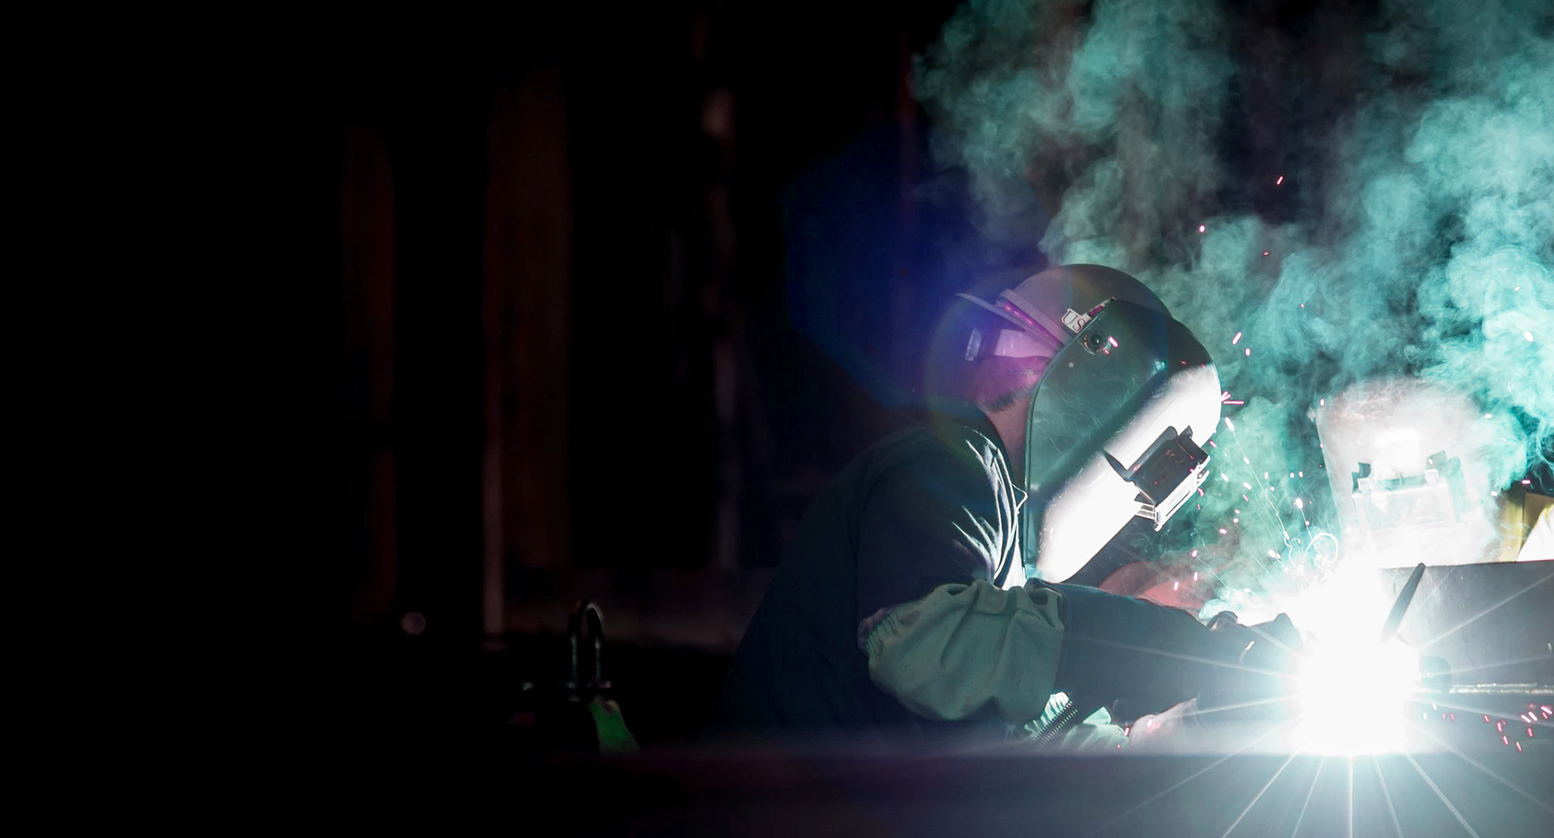
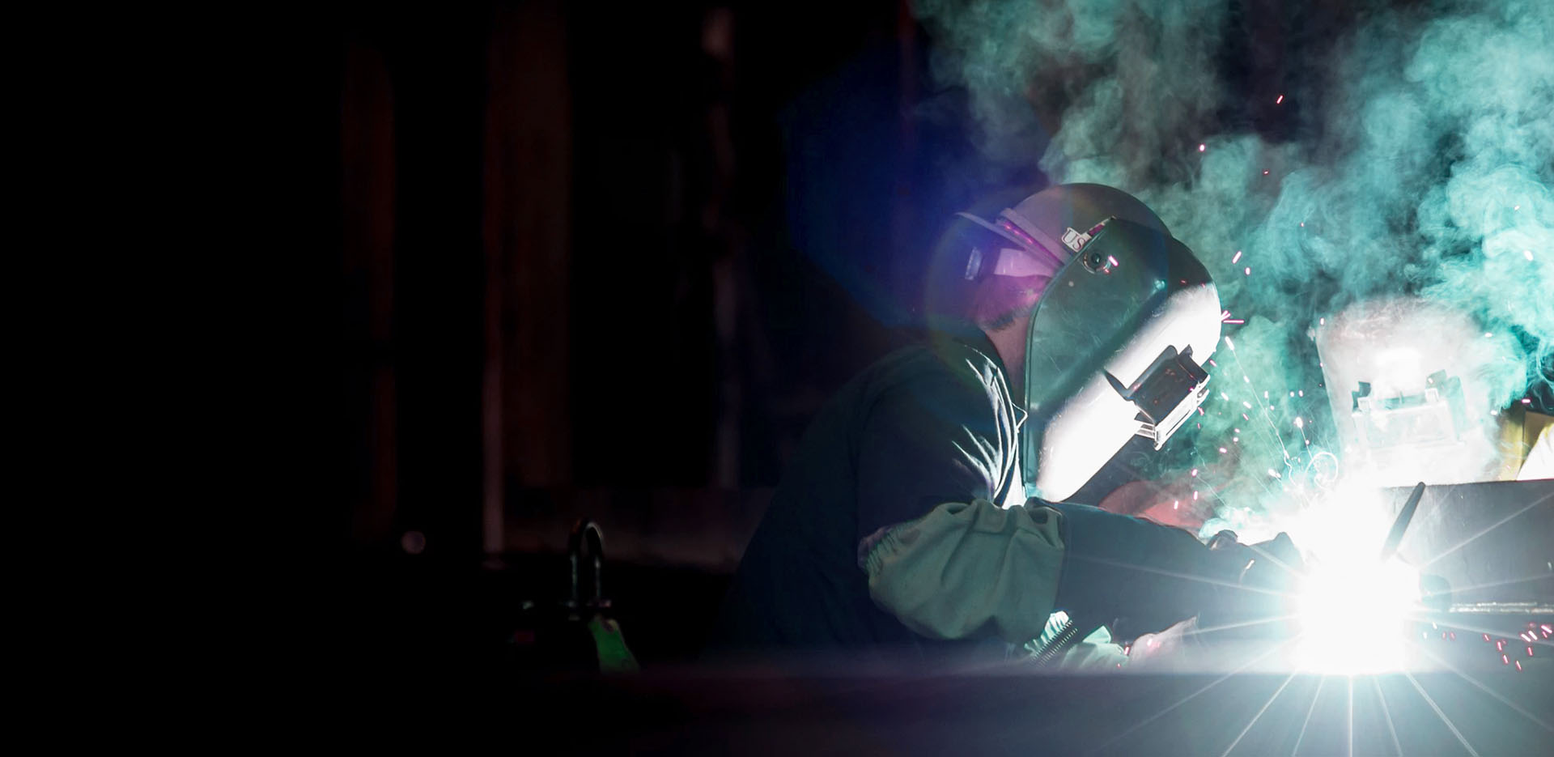
Добавляет верстку главного банера для десктопов

diff --git a/build/css/style.min.css b/build/css/style.min.css
@@ -1,3 +1,3 @@
 /*! normalize-scss | MIT/GPLv2 License | bit.ly/normalize-scss */
-html{line-height:1.15;-ms-text-size-adjust:100%;-webkit-text-size-adjust:100%}body,sub,sup{position:relative}body{margin:0;font-family:"Roboto","Arial",sans-serif;font-weight:400;color:#000;background:#fff;font-size:15px;line-height:22px}article,aside,details,figcaption,figure,footer,header,main,menu,nav,section{display:block}h1{font-size:2em;margin:.67em 0}figure{margin:1em 40px}hr{box-sizing:content-box;height:0;overflow:visible}code,kbd,pre,samp{font-family:monospace,monospace;font-size:1em}a{background-color:transparent;-webkit-text-decoration-skip:objects;text-decoration:none}abbr[title]{border-bottom:none;-webkit-text-decoration:underline dotted;text-decoration:underline dotted}b,strong{font-weight:bolder}dfn{font-style:italic}mark{background-color:#ff0;color:#000}small{font-size:80%}sub,sup{font-size:75%;line-height:0;vertical-align:baseline}sub{bottom:-.25em}sup{top:-.5em}audio,canvas,video{display:inline-block}audio:not([controls]){display:none;height:0}img{border-style:none}svg:not(:root){overflow:hidden}button,input,optgroup,select,textarea{font-family:sans-serif;font-size:100%;line-height:1.15;margin:0}button,input{overflow:visible}button,select{text-transform:none}[type=reset],[type=submit],button,html [type=button]{-webkit-appearance:button}[type=button]::-moz-focus-inner,[type=reset]::-moz-focus-inner,[type=submit]::-moz-focus-inner,button::-moz-focus-inner{border-style:none;padding:0}[type=button]:-moz-focusring,[type=reset]:-moz-focusring,[type=submit]:-moz-focusring,button:-moz-focusring{outline:1px dotted ButtonText}[type=checkbox],[type=radio]{box-sizing:border-box;padding:0}[type=number]::-webkit-inner-spin-button,[type=number]::-webkit-outer-spin-button{height:auto}[type=search]{-webkit-appearance:textfield;outline-offset:-2px}[type=search]::-webkit-search-cancel-button,[type=search]::-webkit-search-decoration{-webkit-appearance:none}::-webkit-file-upload-button{-webkit-appearance:button;font:inherit}fieldset{padding:.35em .75em .625em}legend{box-sizing:border-box;display:table;max-width:100%;padding:0;color:inherit;white-space:normal}progress{display:inline-block;vertical-align:baseline}textarea{overflow:auto}summary{display:list-item}[hidden],template{display:none}@font-face{font-family:"Roboto";src:url(../fonts/roboto-v19-latin_cyrillic-regular.woff2) format("woff2"),url(../fonts/roboto-v19-latin_cyrillic-regular.woff) format("woff");font-weight:400;font-style:normal}@font-face{font-family:"Roboto";src:url(../fonts/roboto-v19-latin_cyrillic-500.woff2) format("woff2"),url(../fonts/roboto-v19-latin_cyrillic-500.woff) format("woff");font-weight:500;font-style:normal}@font-face{font-family:"Roboto";src:url(../fonts/roboto-v19-latin_cyrillic-700.woff2) format("woff2"),url(../fonts/roboto-v19-latin_cyrillic-700.woff) format("woff");font-weight:700;font-style:normal}@font-face{font-family:"Roboto";src:url(../fonts/roboto-v19-latin_cyrillic-900.woff2) format("woff2"),url(../fonts/roboto-v19-latin_cyrillic-900.woff) format("woff");font-weight:900;font-style:normal}@font-face{font-family:"Raleway";src:url(../fonts/Raleway-Regular.woff2) format("woff2"),url(../fonts/Raleway-Regular.woff) format("woff");font-weight:400;font-style:normal}@font-face{font-family:"Raleway";src:url(../fonts/Raleway-Black.woff2) format("woff2"),url(../fonts/Raleway-Black.woff) format("woff");font-weight:900;font-style:normal}li{list-style:none}.visual-hidden{clip:rect(0 0 0 0);position:absolute;width:1px;height:1px;margin:-1px}.button--scroll,.title{font-size:16px;text-align:center}.button--scroll{line-height:45px;background-color:#00ffd8;font-weight:500;color:#000}.button--scroll:hover{box-shadow:0 2px 4.75px .25px #00ffd8}.title{font-family:"Raleway","Arial",sans-serif;font-weight:900;color:#fff}@media (min-width:768px){.title{font-size:72px;font-weight:900}}.container{box-sizing:border-box;width:320px;margin:0 auto}@media (min-width:768px){.container{padding-left:22px;padding-right:22px;width:768px}}@media (min-width:1200px){.container{padding-left:15px;padding-right:15px;width:1200px}}.page-header{background-color:#fbfbfb;width:100%;margin:0 auto}.main-nav{position:relative;display:-webkit-box;display:flex;flex-wrap:wrap;width:320px;min-height:50px;margin:0 auto;-webkit-box-align:start;align-items:flex-start;-webkit-box-pack:justify;justify-content:space-between}.main-nav__logo{padding-top:6px;padding-left:20px}.main-nav__logo-image{display:block;margin:0 auto}.main-nav__toggle-button{border:0;cursor:pointer;background:0 0;line-height:0;font-size:0;padding:17px 20px;width:18px;min-height:16px}.main-nav__list{display:none;margin:0;padding:0;position:absolute;bottom:-160px;width:100%;z-index:10}.main-nav__toggle:checked~.main-nav__list{display:block}.main-nav__link{display:block;font-size:12px;text-transform:uppercase;line-height:36px;min-height:36px;padding-top:4px;text-align:center;color:#383838;background-color:#e7e7e7;box-shadow:inset 0 1px 2px .02px #ddd}.main-nav__item:nth-child(2)>.main-nav__link{box-shadow:none}.main-nav__feedback,.main-nav__link--desktop,.main-nav__phone{display:none}@media (min-width:768px){.main-nav{width:640px;min-height:52px;padding-left:64px;padding-right:64px;-webkit-box-pack:start;justify-content:flex-start}.main-nav__logo{padding-top:8px;padding-left:0}.main-nav__toggle-button{width:26px;min-height:21px;padding-bottom:14px}.main-nav__toggle-button--top{margin-left:19px}.main-nav__list{left:0;width:207px}.main-nav__phone{display:block;line-height:20px;font-size:14px;font-weight:700;word-spacing:-2px}.main-nav__phone--top{margin-left:auto;margin-top:19px;margin-bottom:13px}}@media (min-width:1200px){.main-nav{width:1170px;min-height:100px;padding-left:15px;padding-right:15px}.main-nav__logo-image{width:141px;height:60px}.main-nav__logo{padding:0;margin-top:20px;margin-bottom:20px;margin-right:58px}.main-nav__toggle-button{display:none}.main-nav__list{display:-webkit-box;display:flex;position:static;width:auto}.main-nav__toggle:checked~.main-nav__list{display:-webkit-box;display:flex}.main-nav__link{font-weight:900;font-size:10px;line-height:20px;text-align:center;color:#707070;background-color:transparent;border:0;min-height:inherit;padding:0;margin-right:25px;margin-top:40px;margin-bottom:40px;box-shadow:none}.main-nav__link:hover{color:#000}.main-nav__link--desktop{display:block}.main-nav__phone{font-size:18px;font-weight:700;margin-top:auto;margin-bottom:auto;word-spacing:-4px}.main-nav__feedback{display:block;width:190px;min-height:45px;margin-left:25px;margin-top:26px;margin-bottom:30px}}.toggle__line{display:block;margin-bottom:4px;height:2px;width:16px;background-color:#959595;border-left:solid;border-right:solid;border-left-width:1px;border-right-width:1px;border-color:#adadad}.toggle__line:last-child{margin-bottom:0}@media (min-width:768px){.toggle__line{width:24px;margin-bottom:7px}}.page-main{position:relative}.page-main__background{background-color:#303030;position:absolute;width:100%;min-height:465px;z-index:-1}.page-main__image{display:block;margin:0 auto}@media (min-width:768px){.page-main__background{min-height:600px}.page-main__image{width:768px;height:600px}}.main-banner{display:-webkit-box;display:flex;-webkit-box-orient:vertical;-webkit-box-direction:normal;flex-direction:column}.main-banner__title{width:260px;letter-spacing:.05em}.main-banner__title--main{margin:128px auto 20px;text-transform:uppercase;line-height:19px}.main-banner__subtitle{font-family:"Roboto","Arial",sans-serif;font-weight:400;width:260px;line-height:normal}.main-banner__subtitle--main{margin:0 auto 60px}.main-banner__year{font-weight:400;color:#00ffd8}.main-banner__year--built{color:#000}.main-banner__list{padding:0;margin:0 0 85px}.main-banner__link{display:block;box-sizing:border-box;font-weight:900;width:280px;margin:0 auto}.main-banner__link--services{line-height:60px;min-height:60px;margin-bottom:10px;text-transform:uppercase}.main-banner__link--contacts{line-height:58px;min-height:58px;background-color:inherit;color:#fff;border:solid 1px #00ffd8;text-transform:uppercase}.main-banner__text{font-size:12px;line-height:18px;width:274px;margin:0 auto}@media (min-width:768px){.main-banner{-webkit-box-orient:horizontal;-webkit-box-direction:normal;flex-direction:row;flex-wrap:wrap;margin:0 auto}.main-banner__title{text-align:left;font-size:38px;letter-spacing:.055em;line-height:normal;width:auto;-webkit-box-ordinal-group:1;order:0}.main-banner__title--main{margin-bottom:20px;margin-left:61px;margin-top:125px}.main-banner__subtitle{display:none}.main-banner__text{font-size:16px;line-height:normal;color:#fff;width:600px;-webkit-box-ordinal-group:2;order:1}.main-banner__text--description{margin:0 0 84px 60px}.main-banner__year--built{color:#00ffd8}.main-banner__list{-webkit-box-ordinal-group:3;order:2;display:-webkit-box;display:flex;-webkit-box-pack:justify;justify-content:space-between;width:600px;margin:0 auto}.main-banner__link{line-height:53px;min-height:55px;width:290px}}
+html{line-height:1.15;-ms-text-size-adjust:100%;-webkit-text-size-adjust:100%}body,sub,sup{position:relative}body{margin:0;font-family:"Roboto","Arial",sans-serif;font-weight:400;color:#000;background:#fff;font-size:15px;line-height:22px}article,aside,details,figcaption,figure,footer,header,main,menu,nav,section{display:block}h1{font-size:2em;margin:.67em 0}figure{margin:1em 40px}hr{box-sizing:content-box;height:0;overflow:visible}code,kbd,pre,samp{font-family:monospace,monospace;font-size:1em}a{background-color:transparent;-webkit-text-decoration-skip:objects;text-decoration:none}abbr[title]{border-bottom:none;-webkit-text-decoration:underline dotted;text-decoration:underline dotted}b,strong{font-weight:bolder}dfn{font-style:italic}mark{background-color:#ff0;color:#000}small{font-size:80%}sub,sup{font-size:75%;line-height:0;vertical-align:baseline}sub{bottom:-.25em}sup{top:-.5em}audio,canvas,video{display:inline-block}audio:not([controls]){display:none;height:0}img{border-style:none}svg:not(:root){overflow:hidden}button,input,optgroup,select,textarea{font-family:sans-serif;font-size:100%;line-height:1.15;margin:0}button,input{overflow:visible}button,select{text-transform:none}[type=reset],[type=submit],button,html [type=button]{-webkit-appearance:button}[type=button]::-moz-focus-inner,[type=reset]::-moz-focus-inner,[type=submit]::-moz-focus-inner,button::-moz-focus-inner{border-style:none;padding:0}[type=button]:-moz-focusring,[type=reset]:-moz-focusring,[type=submit]:-moz-focusring,button:-moz-focusring{outline:1px dotted ButtonText}[type=checkbox],[type=radio]{box-sizing:border-box;padding:0}[type=number]::-webkit-inner-spin-button,[type=number]::-webkit-outer-spin-button{height:auto}[type=search]{-webkit-appearance:textfield;outline-offset:-2px}[type=search]::-webkit-search-cancel-button,[type=search]::-webkit-search-decoration{-webkit-appearance:none}::-webkit-file-upload-button{-webkit-appearance:button;font:inherit}fieldset{padding:.35em .75em .625em}legend{box-sizing:border-box;display:table;max-width:100%;padding:0;color:inherit;white-space:normal}progress{display:inline-block;vertical-align:baseline}textarea{overflow:auto}summary{display:list-item}[hidden],template{display:none}@font-face{font-family:"Roboto";src:url(../fonts/roboto-v19-latin_cyrillic-regular.woff2) format("woff2"),url(../fonts/roboto-v19-latin_cyrillic-regular.woff) format("woff");font-weight:400;font-style:normal}@font-face{font-family:"Roboto";src:url(../fonts/roboto-v19-latin_cyrillic-500.woff2) format("woff2"),url(../fonts/roboto-v19-latin_cyrillic-500.woff) format("woff");font-weight:500;font-style:normal}@font-face{font-family:"Roboto";src:url(../fonts/roboto-v19-latin_cyrillic-700.woff2) format("woff2"),url(../fonts/roboto-v19-latin_cyrillic-700.woff) format("woff");font-weight:700;font-style:normal}@font-face{font-family:"Roboto";src:url(../fonts/roboto-v19-latin_cyrillic-900.woff2) format("woff2"),url(../fonts/roboto-v19-latin_cyrillic-900.woff) format("woff");font-weight:900;font-style:normal}@font-face{font-family:"Raleway";src:url(../fonts/Raleway-Regular.woff2) format("woff2"),url(../fonts/Raleway-Regular.woff) format("woff");font-weight:400;font-style:normal}@font-face{font-family:"Raleway";src:url(../fonts/Raleway-Black.woff2) format("woff2"),url(../fonts/Raleway-Black.woff) format("woff");font-weight:900;font-style:normal}li{list-style:none}.visual-hidden{clip:rect(0 0 0 0);position:absolute;width:1px;height:1px;margin:-1px}.button--scroll,.title{font-size:16px;text-align:center}.button--scroll{line-height:45px;background-color:#00ffd8;font-weight:500;color:#000}.button--scroll:hover{box-shadow:0 2px 4.75px .25px #00ffd8}.title{font-family:"Raleway","Arial",sans-serif;font-weight:900;color:#fff}@media (min-width:768px){.title{font-size:72px;font-weight:900}}.container{box-sizing:border-box;width:320px;margin:0 auto}@media (min-width:768px){.container{padding-left:22px;padding-right:22px;width:768px}}@media (min-width:1200px){.container{padding-left:15px;padding-right:15px;width:1200px}}.page-header{background-color:#fbfbfb;width:100%;margin:0 auto}.main-nav{position:relative;display:-webkit-box;display:flex;flex-wrap:wrap;width:320px;min-height:50px;margin:0 auto;-webkit-box-align:start;align-items:flex-start;-webkit-box-pack:justify;justify-content:space-between}.main-nav__logo{padding-top:6px;padding-left:20px}.main-nav__logo-image{display:block;margin:0 auto}.main-nav__toggle-button{border:0;cursor:pointer;background:0 0;line-height:0;font-size:0;padding:17px 20px;width:18px;min-height:16px}.main-nav__list{display:none;margin:0;padding:0;position:absolute;bottom:-160px;width:100%;z-index:10}.main-nav__toggle:checked~.main-nav__list{display:block}.main-nav__link{display:block;font-size:12px;text-transform:uppercase;line-height:36px;min-height:36px;padding-top:4px;text-align:center;color:#383838;background-color:#e7e7e7;box-shadow:inset 0 1px 2px .02px #ddd}.main-nav__item:nth-child(2)>.main-nav__link{box-shadow:none}.main-nav__feedback,.main-nav__link--desktop,.main-nav__phone{display:none}@media (min-width:768px){.main-nav{width:640px;min-height:52px;padding-left:64px;padding-right:64px;-webkit-box-pack:start;justify-content:flex-start}.main-nav__logo{padding-top:8px;padding-left:0}.main-nav__toggle-button{width:26px;min-height:21px;padding-bottom:14px}.main-nav__toggle-button--top{margin-left:19px}.main-nav__list{left:0;width:207px}.main-nav__phone{display:block;line-height:20px;font-size:14px;font-weight:700;word-spacing:-2px}.main-nav__phone--top{margin-left:auto;margin-top:19px;margin-bottom:13px}}@media (min-width:1200px){.main-nav{width:1170px;min-height:100px;padding-left:15px;padding-right:15px}.main-nav__logo-image{width:141px;height:60px}.main-nav__logo{padding:0;margin-top:20px;margin-bottom:20px;margin-right:58px}.main-nav__toggle-button{display:none}.main-nav__list{display:-webkit-box;display:flex;position:static;width:auto}.main-nav__toggle:checked~.main-nav__list{display:-webkit-box;display:flex}.main-nav__link{font-weight:900;font-size:10px;line-height:20px;text-align:center;color:#707070;background-color:transparent;border:0;min-height:inherit;padding:0;margin-right:25px;margin-top:40px;margin-bottom:40px;box-shadow:none}.main-nav__link:hover{color:#000}.main-nav__link--desktop{display:block}.main-nav__phone{font-size:18px;font-weight:700;margin-top:auto;margin-bottom:auto;word-spacing:-4px}.main-nav__feedback{display:block;width:190px;min-height:45px;margin-left:25px;margin-top:26px;margin-bottom:30px}}.toggle__line{display:block;margin-bottom:4px;height:2px;width:16px;background-color:#959595;border-left:solid;border-right:solid;border-left-width:1px;border-right-width:1px;border-color:#adadad}.toggle__line:last-child{margin-bottom:0}@media (min-width:768px){.toggle__line{width:24px;margin-bottom:7px}}.page-main{position:relative}.page-main__background{background-color:#303030;position:absolute;width:100%;min-height:465px;z-index:-1}.page-main__gradient{position:absolute;bottom:0;width:100%;height:100%;background:-webkit-gradient(linear,left bottom,left top,from(#000),color-stop(63%,rgba(0,0,0,.2)),to(rgba(255,255,255,0)));background:linear-gradient(0deg,#000 0%,rgba(0,0,0,.2) 63%,rgba(255,255,255,0) 100%);z-index:20}.page-main__image{display:block;margin:0 auto}@media (min-width:768px){.page-main__background{min-height:600px}.page-main__image{width:768px;height:600px;z-index:-1}}@media (min-width:1200px){.page-main__background{height:930px}.page-main__image{width:1920px;height:930px;z-index:-1}}.main-banner{display:-webkit-box;display:flex;-webkit-box-orient:vertical;-webkit-box-direction:normal;flex-direction:column}.main-banner__title{width:260px;letter-spacing:.05em}.main-banner__title--main{margin:128px auto 20px;text-transform:uppercase;line-height:19px}.main-banner__subtitle{font-family:"Roboto","Arial",sans-serif;font-weight:400;width:260px;line-height:normal}.main-banner__subtitle--main{margin:0 auto 60px}.main-banner__year{font-weight:400;color:#00ffd8}.main-banner__year--built{color:#000}.main-banner__list{padding:0;margin:0 0 85px}.main-banner__link{display:block;box-sizing:border-box;font-weight:900;width:280px;margin:0 auto}.main-banner__link--services{line-height:60px;min-height:60px;margin-bottom:10px;text-transform:uppercase}.main-banner__link--contacts{line-height:58px;min-height:58px;background-color:inherit;color:#fff;border:solid 1px #00ffd8;text-transform:uppercase}.main-banner__text{font-size:12px;line-height:18px;width:274px;margin:0 auto}@media (min-width:768px){.main-banner{-webkit-box-orient:horizontal;-webkit-box-direction:normal;flex-direction:row;flex-wrap:wrap;margin:0 auto}.main-banner__title{text-align:left;font-size:38px;letter-spacing:.055em;line-height:normal;width:auto;-webkit-box-ordinal-group:1;order:0}.main-banner__title--main{margin-bottom:20px;margin-left:61px;margin-top:125px}.main-banner__subtitle{display:none}.main-banner__text{font-size:16px;line-height:normal;color:#fff;width:600px;-webkit-box-ordinal-group:2;order:1}.main-banner__text--description{margin:0 0 84px 60px}.main-banner__year--built{color:#00ffd8}.main-banner__list{-webkit-box-ordinal-group:3;order:2;display:-webkit-box;display:flex;-webkit-box-pack:justify;justify-content:space-between;width:600px;margin:0 auto}.main-banner__link{line-height:53px;min-height:55px;width:290px}}@media (min-width:1200px){.main-banner__title{font-size:72px;width:100%;letter-spacing:.05em}.main-banner__title--main{margin-bottom:25px;margin-left:0;margin-top:150px}.main-banner__text{font-size:24px;line-height:38px;width:1020px;letter-spacing:.01em}.main-banner__text--description{margin-bottom:52px;margin-left:0}.main-banner__list{display:-webkit-box;display:flex;-webkit-box-pack:start;justify-content:flex-start;width:100%}.main-banner__item{margin-right:20px}.main-banner__link{font-size:20px;width:300px}}
 /*# sourceMappingURL=style.min.css.map */

diff --git a/build/index.html b/build/index.html
@@ -52,6 +52,7 @@
         <source media="(min-width: 768px)" srcset="img/banner-bg-tablet.webp">
         <img class="page-main__image" src="img/banner-bg-mobile.webp" width="320" height="465" alt="Полный комплекс строительно-монтажных работ">
       </picture>
+      <div class="page-main__gradient"></div>
     </div>
     <div class="container">
       <section class="main-banner">
@@ -65,7 +66,7 @@
             <a class="button button--scroll main-banner__link main-banner__link--contacts">Связаться с нами</a>
           </li>
         </ul>
-        <p class="main-banner__text main-banner__text--description">Компания ЗАО «НCП «МонтCтрой» успешно работает на российском рынке с&nbsp;<b class="main-banner__year main-banner__year--built">1992</b> года, и за это время зарекомендовала себя как ведущий разработчик качественных систем установок для предприятий, выполняет полный комплекс строительно-монтажных и пуско-наладочных работ по&nbsp;электроснабжению зданий и сооружений.</p>
+        <p class="main-banner__text main-banner__text--description">Компания ЗАО «НCП «МонтCтрой» успешно работает на российском рынке с&nbsp;<b class="main-banner__year main-banner__year--built">1992</b> года, и&nbsp;за это время зарекомендовала себя как ведущий разработчик качественных систем установок для предприятий, выполняет полный комплекс строительно-монтажных и&nbsp;пуско-наладочных работ по&nbsp;электроснабжению зданий и сооружений.</p>
       </section>
     </div>
   </main>

diff --git a/source/index.html b/source/index.html
@@ -52,6 +52,7 @@
         <source media="(min-width: 768px)" srcset="img/banner-bg-tablet.webp">
         <img class="page-main__image" src="img/banner-bg-mobile.webp" width="320" height="465" alt="Полный комплекс строительно-монтажных работ">
       </picture>
+      <div class="page-main__gradient"></div>
     </div>
     <div class="container">
       <section class="main-banner">
@@ -65,7 +66,7 @@
             <a class="button button--scroll main-banner__link main-banner__link--contacts">Связаться с нами</a>
           </li>
         </ul>
-        <p class="main-banner__text main-banner__text--description">Компания ЗАО «НCП «МонтCтрой» успешно работает на российском рынке с&nbsp;<b class="main-banner__year main-banner__year--built">1992</b> года, и за это время зарекомендовала себя как ведущий разработчик качественных систем установок для предприятий, выполняет полный комплекс строительно-монтажных и пуско-наладочных работ по&nbsp;электроснабжению зданий и сооружений.</p>
+        <p class="main-banner__text main-banner__text--description">Компания ЗАО «НCП «МонтCтрой» успешно работает на российском рынке с&nbsp;<b class="main-banner__year main-banner__year--built">1992</b> года, и&nbsp;за это время зарекомендовала себя как ведущий разработчик качественных систем установок для предприятий, выполняет полный комплекс строительно-монтажных и&nbsp;пуско-наладочных работ по&nbsp;электроснабжению зданий и сооружений.</p>
       </section>
     </div>
   </main>

diff --git a/source/sass/blocks/main-banner.scss b/source/sass/blocks/main-banner.scss
@@ -77,6 +77,7 @@
 /*-- Tablet --*/
 
 @media (min-width: $tablet-width) {
+
   .main-banner {
     flex-direction: row;
     flex-wrap: wrap;
@@ -132,6 +133,51 @@
     line-height: 53px;
     min-height: 55px;
     width: 290px;
+  }
+
+}
+
+/*-- Desktop --*/
+
+@media (min-width: $desktop-width) {
+
+  .main-banner__title {
+    font-size: 72px;
+    width: 100%;
+    letter-spacing: 0.05em;
+
+    &--main {
+      margin-bottom: 25px;
+      margin-left: 0;
+      margin-top: 150px;
+    }
+  }
+
+  .main-banner__text {
+    font-size: 24px;
+    line-height: 38px;
+    width: 1020px;
+    letter-spacing: 0.01em;
+
+    &--description {
+      margin-bottom: 52px;
+      margin-left: 0;
+    }
+  }
+
+  .main-banner__list {
+    display: flex;
+    justify-content: flex-start;
+    width: 100%;
+  }
+
+  .main-banner__item {
+    margin-right: 20px;
+  }
+
+  .main-banner__link {
+    font-size: 20px;
+    width: 300px;
   }
 
 }

diff --git a/source/sass/blocks/page-main.scss b/source/sass/blocks/page-main.scss
@@ -10,6 +10,15 @@
   z-index: -1;
 }
 
+.page-main__gradient {
+  position: absolute;
+  bottom: 0;
+  width: 100%;
+  height: 100%;
+  background: linear-gradient(0deg, rgba(0, 0, 0, 1) 0%, rgba(0, 0, 0, 0.2) 63%, rgba(255, 255, 255, 0) 100%);
+  z-index: 20;
+}
+
 .page-main__image {
   display: block;
   margin: 0 auto;
@@ -26,9 +35,20 @@
   .page-main__image {
     width: 768px;
     height: 600px;
+    z-index: -1;
   }
 }
 
 /*-- Desktop --*/
 
-@media (min-width: $desktop-width) {}
+@media (min-width: $desktop-width) {
+  .page-main__background {
+    height: 930px;
+  }
+
+  .page-main__image {
+    width: 1920px;
+    height: 930px;
+    z-index: -1;
+  }
+}
